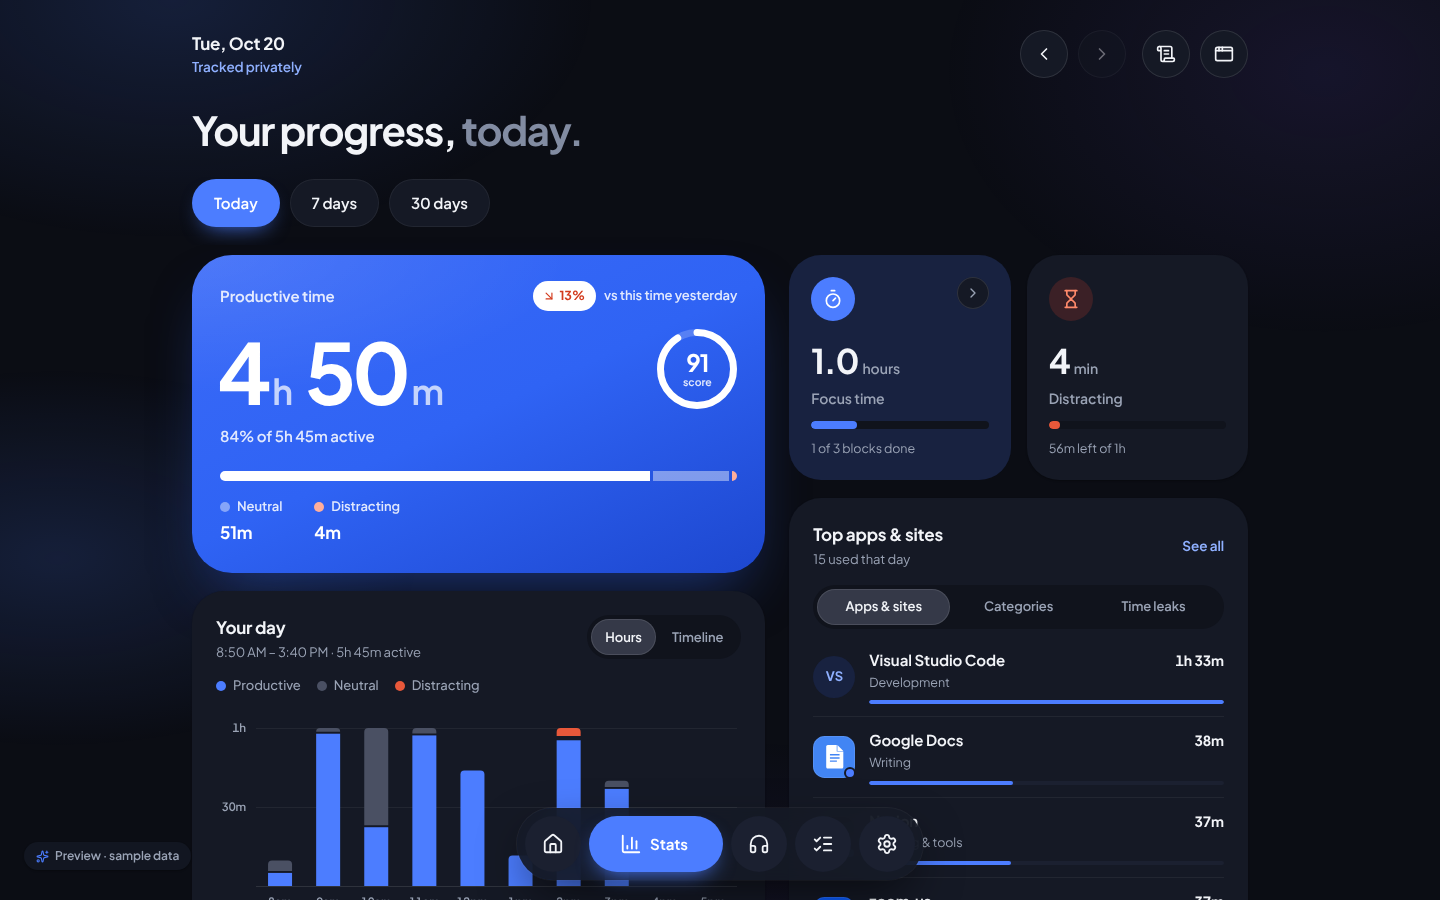
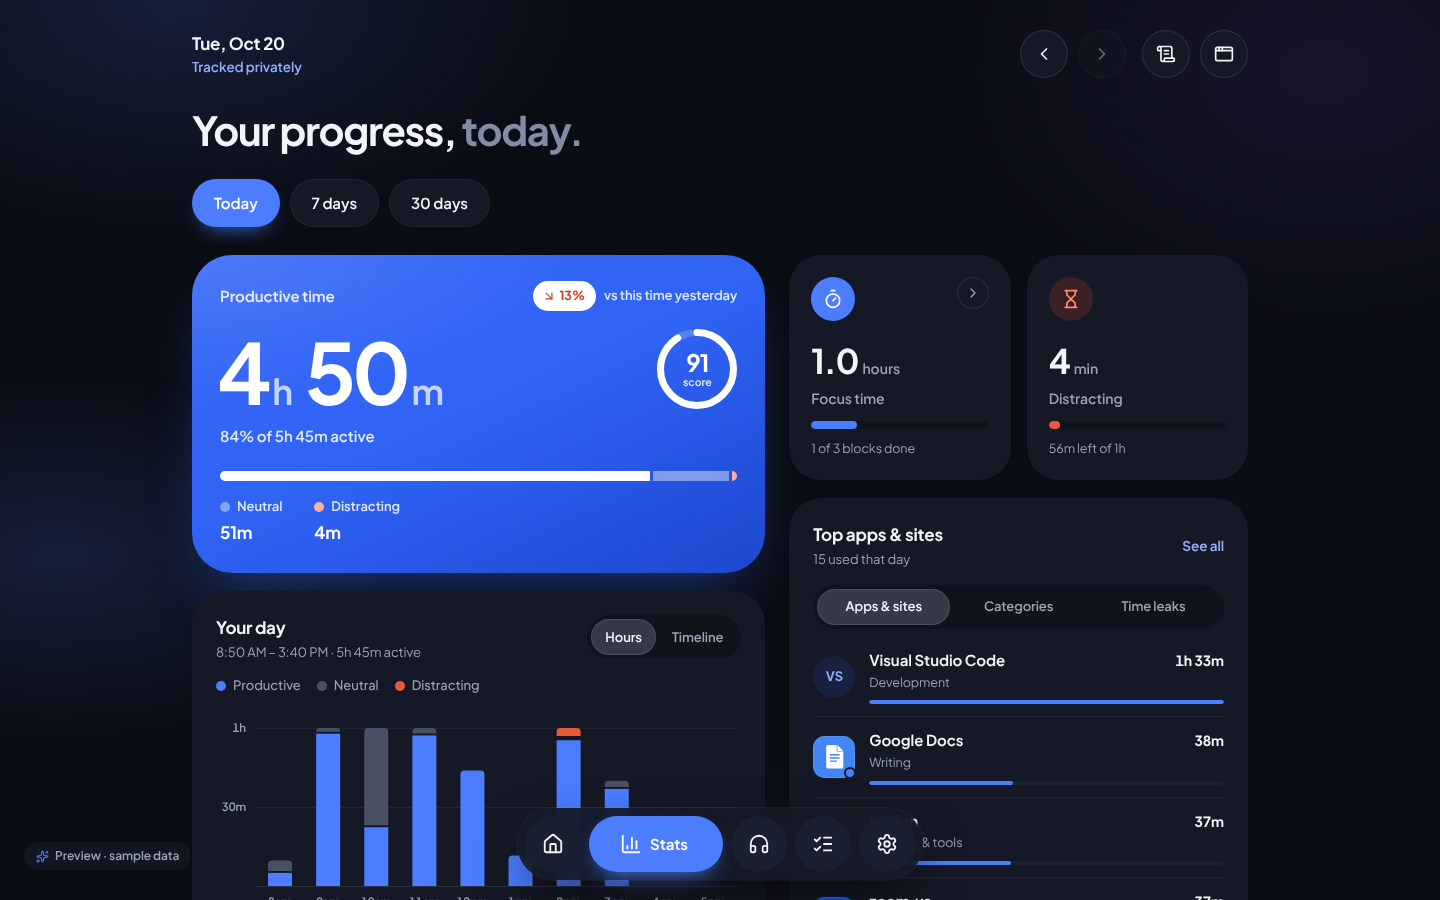
Release 0.3.2: brook sound, white Focus card, bug fixes
- Stream: rebuilt as a steady water rush (pink noise, 160 Hz–2.4 kHz,
  fast small flicker) plus Minnaert-style bubbles that rise in pitch, in
  singles and bursts. Slow 0.2–3 Hz swells drop from ~25% to ~7% (the
  "breathing into a microphone" sound); loudness matched, trim 0.7→0.6
  so Forest Morning's birds lead.
- Stats Focus time tile is a plain card; .card.tint starts from white in
  light mode so tinted cards no longer melt into the canvas.
- Fade out during breaks: a mix paused for a break resumes with the next
  focus block even when auto-play is off.
- Settings: echoes of earlier saves are ignored while newer changes wait,
  so sliders no longer jump back mid-drag; the latest save's result is
  applied when nothing newer is pending.
- Typing a task's name as the intention links that task.
- Kairo itself is classified as Planning & tools.
- Favicon lookups re-copy browser databases only when they changed.

Claude-Session: https://claude.ai/code/session_01BkmKSzCsQ3gtA9VF31s5UK

Changed region(s): [[0.5312, 0.28, 0.7188, 0.56]]

diff --git a/src/lib/audio/synth.ts b/src/lib/audio/synth.ts
@@ -142,39 +142,48 @@ export const fillFire: Fill = (out, _ch, sr) => {
 };
 
 export const fillStream: Fill = (out, _ch, sr) => {
-  // White noise through a jittering resonant band-pass: bubbling water.
-  let x1 = 0, x2 = 0, y1 = 0, y2 = 0;
-  let b0 = 0, b2 = 0, a0 = 1, a1 = 0, a2 = 0;
-  let target = 1200;
-  let freq = 1200;
-  let amp = 0.5;
-  let ampTarget = 0.5;
+  // A brook is a steady rush of water with countless small bubbles popping in it.
+  // The rush: pink noise with its rumble and hiss rolled off, its level only
+  // flickering quickly (slow swells sound like breath on a microphone).
+  fillPink(out);
+  onePoleLowpass(out, 2400, sr);
+  onePoleHighpass(out, 160, sr);
+  let level = 1;
+  let target = 1;
+  const step = Math.floor(sr * 0.04);
   for (let i = 0; i < out.length; i++) {
-    if (i % 64 === 0) {
-      if (Math.random() < 0.03) target = 500 + Math.random() * 2200;
-      if (Math.random() < 0.02) ampTarget = 0.25 + Math.random() * 0.75;
-      freq += (target - freq) * 0.08;
-      amp += (ampTarget - amp) * 0.02;
-      const w0 = (2 * Math.PI * freq) / sr;
-      const alpha = Math.sin(w0) / (2 * 2.2);
-      b0 = alpha;
-      b2 = -alpha;
-      a0 = 1 + alpha;
-      a1 = -2 * Math.cos(w0);
-      a2 = 1 - alpha;
-    }
-    const x = white();
-    const y = (b0 * x + b2 * x2 - a1 * y1 - a2 * y2) / a0;
-    x2 = x1;
-    x1 = x;
-    y2 = y1;
-    y1 = y;
-    out[i] = y * amp * 1.4;
+    if (i % step === 0) target = 0.88 + Math.random() * 0.24;
+    level += (target - level) * 0.004;
+    out[i] *= 0.95 * level;
   }
-  const bed = new Float32Array(out.length);
-  fillPink(bed);
-  onePoleLowpass(bed, 1500, sr);
-  for (let i = 0; i < out.length; i++) out[i] += bed[i] * 0.25;
+
+  // The babble: each bubble rings like a little bell whose pitch rises as it
+  // reaches the surface (Minnaert resonance; damping after van den Doel, 2005).
+  // They come singly and in short bursts, mostly quiet, some brighter.
+  const bubble = (at: number, f0: number, amp: number) => {
+    const damping = (0.13 * f0 + 0.0072 * f0 ** 1.5) * 0.55;
+    const rise = (0.25 + Math.random() * 0.45) * damping;
+    const len = Math.min(Math.floor((sr * 5) / damping), Math.floor(sr * 0.15));
+    const attack = sr * 0.0006;
+    let phase = 0;
+    addEvent(out, at, len, (i) => {
+      const t = i / sr;
+      phase += (2 * Math.PI * f0 * (1 + rise * t)) / sr;
+      return Math.sin(phase) * Math.exp(-damping * t) * (1 - Math.exp(-i / attack)) * amp;
+    });
+  };
+  const seconds = out.length / sr;
+  const bursts = Math.floor(seconds * 20);
+  for (let b = 0; b < bursts; b++) {
+    const at = Math.floor(Math.random() * out.length);
+    const n = Math.random() < 0.6 ? 1 : 2 + Math.floor(Math.random() * 5);
+    for (let k = 0; k < n; k++) {
+      // Log-uniform 380–2600 Hz: small bubbles are high and quieter.
+      const f0 = 380 * 10 ** (Math.random() * 0.84);
+      const amp = (0.065 + 0.28 * Math.random() ** 3) * Math.sqrt(700 / f0);
+      bubble(at + Math.floor(sr * Math.random() * 0.09), f0, amp);
+    }
+  }
 };
 
 export const fillForest: Fill = (out, ch, sr) => {

diff --git a/src/lib/store.ts b/src/lib/store.ts
@@ -51,6 +51,13 @@ interface State {
 }
 
 let persistTimer: number | undefined;
+/**
+ * Local changes the core hasn't confirmed yet. While there are any, the core's
+ * echoes of earlier saves are stale and ignored (they'd snap a slider being
+ * dragged back to where it was a moment ago).
+ */
+let unsavedChanges = false;
+let saveSeq = 0;
 let toastId = 1;
 
 const viewFromHash = (): View | null => {
@@ -114,7 +121,7 @@ export const useApp = create<State>((set, get) => ({
           set({ tracker: e.status });
           break;
         case "settings":
-          set({ settings: withDefaults(e.settings) });
+          if (!unsavedChanges) set({ settings: withDefaults(e.settings) });
           break;
         case "data":
           get().bumpData();
@@ -167,9 +174,24 @@ export const useApp = create<State>((set, get) => ({
   updateSettings(patch) {
     const next = withDefaults({ ...get().settings, ...patch });
     set({ settings: next });
+    unsavedChanges = true;
     window.clearTimeout(persistTimer);
     persistTimer = window.setTimeout(() => {
-      backend.updateSettings(next).catch((err) => get().toast({ title: "Couldn't save settings", body: String(err), tone: "warning" }));
+      persistTimer = undefined;
+      const mine = ++saveSeq;
+      backend
+        .updateSettings(next)
+        .then((saved) => {
+          // The latest save, with nothing newer waiting: take the core's version (it may clamp values).
+          if (mine === saveSeq && persistTimer === undefined) {
+            unsavedChanges = false;
+            set({ settings: withDefaults(saved) });
+          }
+        })
+        .catch((err) => {
+          if (mine === saveSeq && persistTimer === undefined) unsavedChanges = false;
+          get().toast({ title: "Couldn't save settings", body: String(err), tone: "warning" });
+        });
     }, 350);
   },
 
@@ -222,13 +244,22 @@ export const useApp = create<State>((set, get) => ({
 }));
 
 /** Couple the soundscape to the timer: auto-play on focus, fade out on breaks. */
+/** The mix was faded out for a break, so it comes back when focus resumes. */
+let pausedForBreak = false;
+
 function onTimer(prev: TimerSnapshot | null, next: TimerSnapshot) {
   const sound = useApp.getState().settings.sound;
   if (!sound) return;
   const startedFocus = next.phase === "focus" && next.status === "running" && !(prev?.phase === "focus" && prev.status === "running");
   const enteredBreak = next.phase !== "focus" && prev?.phase === "focus";
-  if (startedFocus && sound.autoPlay && soundEngine.hasMix && !soundEngine.playing) void soundEngine.play();
-  if (enteredBreak && sound.pauseOnBreak && soundEngine.playing) soundEngine.pause();
+  if (startedFocus) {
+    if ((sound.autoPlay || pausedForBreak) && soundEngine.hasMix && !soundEngine.playing) void soundEngine.play();
+    pausedForBreak = false;
+  }
+  if (enteredBreak && sound.pauseOnBreak && soundEngine.playing) {
+    soundEngine.pause();
+    pausedForBreak = true;
+  }
 }
 
 /**

diff --git a/src/views/StatsView.tsx b/src/views/StatsView.tsx
@@ -581,7 +581,6 @@ function Tiles({
   return (
     <div className="stats-tiles">
       <Tile
-        tint
         icon={<Timer />}
         iconClass="brand-solid"
         value={<TileDur ms={focusAvg} />}
@@ -620,7 +619,6 @@ function Tile({
   meter,
   meterClass,
   foot,
-  tint,
   badge,
   onClick,
 }: {
@@ -631,7 +629,6 @@ function Tile({
   meter?: number;
   meterClass?: string;
   foot: string;
-  tint?: boolean;
   badge?: ReactNode;
   onClick?: () => void;
 }) {
@@ -657,11 +654,11 @@ function Tile({
     </>
   );
   return onClick ? (
-    <button type="button" className={cx("card tile tile-button", tint && "tint")} onClick={onClick} aria-haspopup="dialog">
+    <button type="button" className="card tile tile-button" onClick={onClick} aria-haspopup="dialog">
       {body}
     </button>
   ) : (
-    <div className={cx("card tile", tint && "tint")}>{body}</div>
+    <div className="card tile">{body}</div>
   );
 }
 

diff --git a/src/views/HomeView.tsx b/src/views/HomeView.tsx
@@ -419,7 +419,10 @@ function Intention({
   const linked = tasks.find((t) => t.id === timer.taskId);
   const top = tasks.slice(0, 4);
   const commit = () => {
-    if (value !== timer.intention) void setIntention(value, timer.taskId);
+    if (value === timer.intention) return;
+    // Typing a task's name links that task (so the block counts toward it).
+    const named = tasks.find((t) => t.title.trim().toLowerCase() === value.trim().toLowerCase());
+    void setIntention(value, named?.id ?? timer.taskId);
   };
   const text = value.trim();
   // Focus on something that isn't a task yet? One tap makes it one.

diff --git a/src/lib/audio/engine.ts b/src/lib/audio/engine.ts
@@ -60,7 +60,7 @@ export const PRESETS: Preset[] = [
 
 /** Per-sound loudness trim so presets sit at similar volumes. */
 const TRIM: Record<SoundId, number> = {
-  rain: 0.9, thunder: 1.1, ocean: 0.9, wind: 0.9, fire: 1.0, stream: 0.7, forest: 1.1, night: 1.0,
+  rain: 0.9, thunder: 1.1, ocean: 0.9, wind: 0.9, fire: 1.0, stream: 0.6, forest: 1.1, night: 1.0,
   white: 0.35, pink: 0.7, brown: 0.8, binaural: 0.22, drone: 0.5,
 };
 

diff --git a/src/styles/ui.css b/src/styles/ui.css
@@ -65,7 +65,14 @@
   box-shadow: none;
 }
 
+/* A card with a soft brand wash. In light mode the tint alone is nearly the
+   canvas colour, so it starts from white and keeps a card's shadow. */
 .card.tint {
+  background: linear-gradient(150deg, var(--surface) 35%, var(--brand-tint-2) 100%);
+  box-shadow: var(--shadow-sm);
+}
+
+:root[data-theme="dark"] .card.tint {
   background: var(--brand-tint-2);
   box-shadow: none;
 }

diff --git a/src-tauri/src/icons/favicons.rs b/src-tauri/src/icons/favicons.rs
@@ -82,6 +82,20 @@ fn databases() -> Vec<PathBuf> {
 pub struct Favicons {
     copies: Vec<PathBuf>,
     made: Option<Instant>,
+    /// What the browsers' files looked like when copied (path, size, modified).
+    sources: Vec<(PathBuf, u64, Option<std::time::SystemTime>)>,
+}
+
+/// Each browser database's identity: if none changed, the copies are current.
+fn fingerprint(dbs: &[PathBuf]) -> Vec<(PathBuf, u64, Option<std::time::SystemTime>)> {
+    dbs.iter()
+        .map(|db| {
+            // The write-ahead log changes first; fall back to the main file.
+            let meta = std::fs::metadata(sidecar(db, "-wal")).or_else(|_| std::fs::metadata(db));
+            let (len, modified) = meta.map(|m| (m.len(), m.modified().ok())).unwrap_or((0, None));
+            (db.clone(), len, modified)
+        })
+        .collect()
 }
 
 impl Favicons {
@@ -89,9 +103,17 @@ impl Favicons {
         if self.made.is_some_and(|t| t.elapsed() < max_age) {
             return;
         }
+        // Favicon databases can be tens of megabytes: copy only when a browser changed them.
+        let dbs = databases();
+        let now = fingerprint(&dbs);
+        if self.made.is_some() && now == self.sources {
+            self.made = Some(Instant::now());
+            return;
+        }
+        self.sources = now;
         self.remove_copies();
         let dir = std::env::temp_dir();
-        for (i, db) in databases().into_iter().enumerate() {
+        for (i, db) in dbs.into_iter().enumerate() {
             let copy = dir.join(format!("kairo-favicons-{}-{i}.db", std::process::id()));
             if std::fs::copy(&db, &copy).is_err() {
                 continue;

diff --git a/src-tauri/src/categories.rs b/src-tauri/src/categories.rs
@@ -76,7 +76,8 @@ const APP_RULES: &[(&str, &[&str])] = &[
     (
         "productivity",
         &[
-            "notion", "obsidian", "evernote", "onenote", "=things", "=things 3", "todoist",
+            // Planning in Kairo itself is planning.
+            "=kairo", "notion", "obsidian", "evernote", "onenote", "=things", "=things 3", "todoist",
             "omnifocus", "ticktick", "reminders", "=notes", "=calendar", "fantastical",
             "microsoft excel", "=excel", "=numbers", "keynote", "powerpoint", "powerpnt",
             "airtable", "=craft", "logseq", "=linear", "=jira", "asana", "trello", "clickup",
@@ -363,6 +364,8 @@ mod tests {
         assert_eq!(classify_app("com.instagram.android", "Instagram"), "social");
         assert_eq!(classify_app("google chrome", "Google Chrome"), "browsing");
         assert_eq!(classify_app("3ds max", "3ds Max"), "other");
+        assert_eq!(classify_app("kairo", "Kairo"), "productivity");
+        assert_eq!(classify_app("kairos-tool", "Kairos Tool"), "other", "exact name only");
         assert!(is_browser("msedge", "Microsoft Edge"));
         assert!(!is_browser("figma", "Figma"));
     }

diff --git a/.github/release-notes.md b/.github/release-notes.md
@@ -2,10 +2,13 @@ Kairo is a calm focus timer that shows where your time goes, privately and on yo
 
 ## What's new
 
-- **A steadier timer card.** A focus that wraps onto two lines no longer makes the card, and everything next to it, taller. Before a block starts, the hint and **Add as task** sit beside the play button, where there's room.
-- **New Focused today and Goal streak cards.** A ring fills up toward your daily goal, and a seven-day ring lights up each day you reached it. Both cards now match the rest of Home in light mode.
-- **Delete history without excluding.** In an app's or site's details (tap it in Stats or Apps & sites), **Delete history** removes its recorded time once. Kairo keeps tracking it, and it shows up again next time you use it. **Exclude & delete** still stops tracking it for good.
-- **A nicer menu bar menu**, with icons, a coloured dot for the timer's state, and the length of each break.
+- **A stream that sounds like a stream.** Forest Morning's brook used to swell and fade like someone breathing into a microphone. It's now a steady rush of water full of small bubbling plinks, and the birdsong sits a little in front of it.
+- **Focus time on Stats is a proper card** in light mode, like the Distracting card next to it, instead of fading into the background. Other tinted cards (Settings' privacy card, Home tips) stand out from the page too.
+- **Your sound comes back after a break.** With "Fade out during breaks" on, a soundscape you were playing now returns when the next focus block starts, even if "Play when a focus block starts" is off.
+- **Type a task's name as your focus** and Kairo links that task, so the block counts toward it.
+- **Kairo counts as planning** in your stats (Planning & tools) instead of "Other".
+- **Smoother settings.** Dragging a slider (volume, mixer) no longer jumps back for a moment while earlier changes save.
+- **Lighter on your disk.** Looking for site icons now copies a browser's icon database only when the browser has changed it.
 - **Android:** if Android won't install this over your current version, export your data from **Settings** (Export on the privacy card) if you want a copy, uninstall the old app, then install this one.
 
 ## Downloads
